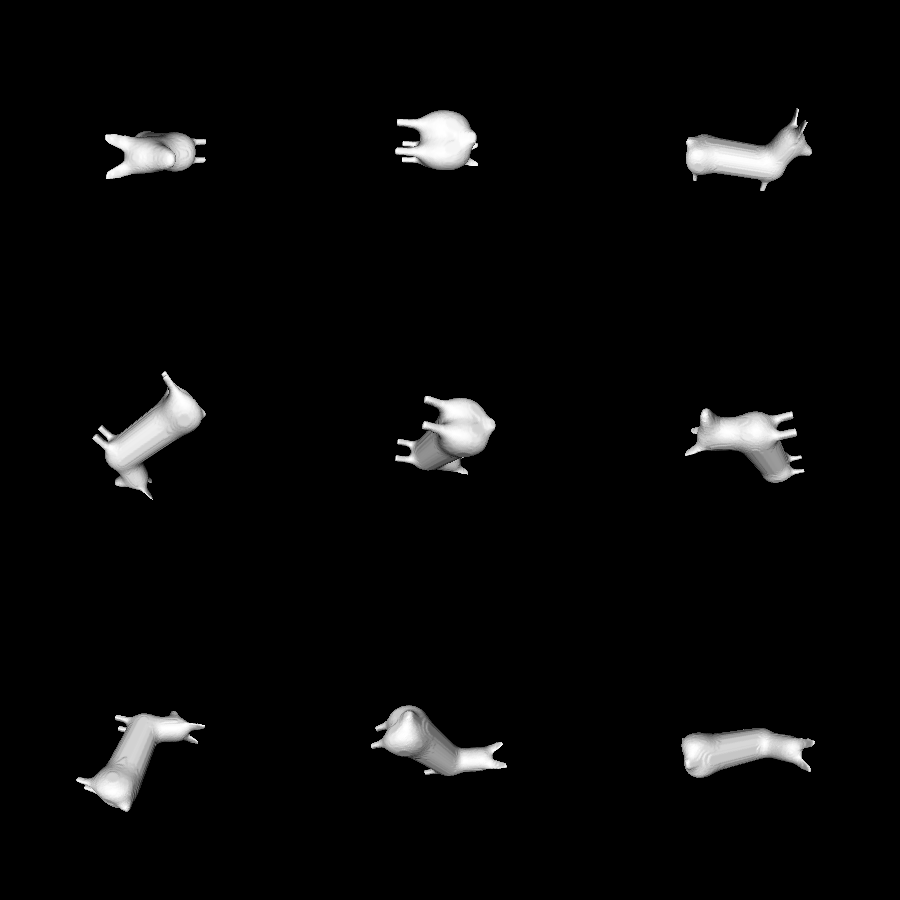
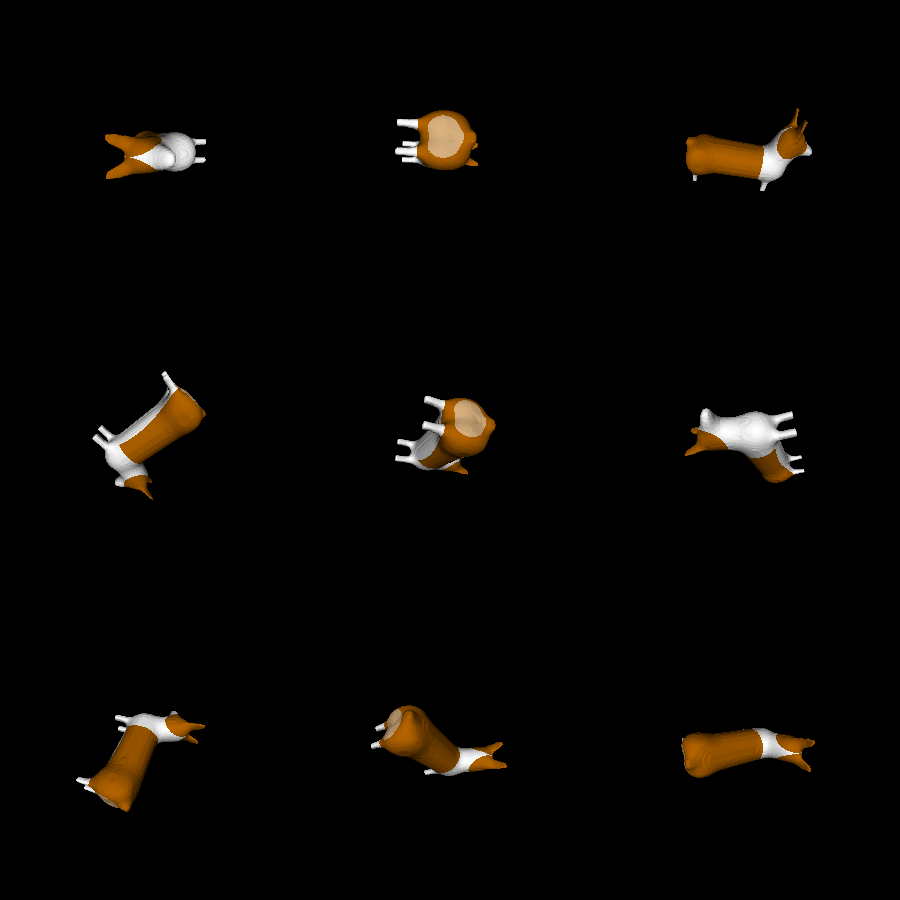
corgi: add color to the model

diff --git a/examples/decoration/corgi/main.go b/examples/decoration/corgi/main.go
@@ -43,6 +43,28 @@ const (
 	HindLegMuscleThickness = 0.4
 	HindLegMuscleZ         = -0.02
 	HindLegMuscleX         = -0.1
+
+	BrownMaxX              = BodyLength - 0.2
+	BrownMinZ              = -BodyRadius - 0.05
+	HeadColorSphereRadius  = 0.41
+	HeadColorSphereX       = BodyLength + 0.2
+	HeadColorSphereY       = 0.4
+	HeadColorSphereZ       = 0.72
+	ButtColorSphereX       = -0.65
+	ButtColorSphereZ       = -0.15
+	ButtColorSphereRadius  = 0.4
+	BellyColorSphereZ      = -2.1
+	BellyColorSphereRadius = 1.9
+)
+
+var (
+	BrownFur = [3]float64{179.0 / 255, 99.0 / 255, 0}
+	WhiteFur = [3]float64{1, 1, 1}
+	ButtFur  = [3]float64{
+		(BrownFur[0] + WhiteFur[0]) / 2,
+		(BrownFur[1] + WhiteFur[1]) / 2,
+		(BrownFur[2] + WhiteFur[2]) / 2,
+	}
 )
 
 func main() {
@@ -51,10 +73,54 @@ func main() {
 		MakeSnout(), MakeNub(), MakeEars())
 	log.Println("creating mesh...")
 	mesh := model3d.SolidToMesh(model, 0.01, 0, -1, 5)
+
+	colors := MakeColorer()
+
 	log.Println("saving...")
 	mesh.SaveGroupedSTL("corgi.stl")
+
 	log.Println("rendering...")
-	model3d.SaveRandomGrid("rendering.png", model3d.MeshToCollider(mesh), 3, 3, 300, 300)
+	model3d.SaveRandomGridColor("rendering.png", model3d.MeshToCollider(mesh), 3, 3, 300, 300,
+		colors.VertexColor)
+}
+
+func MakeColorer() *Colorer {
+	res := &Colorer{}
+
+	res.Add(&model3d.SphereSolid{
+		Center: model3d.Coord3D{X: ButtColorSphereX, Z: ButtColorSphereZ},
+		Radius: ButtColorSphereRadius,
+	}, ButtFur)
+
+	res.Add(&model3d.SphereSolid{
+		Center: model3d.Coord3D{X: BodyLength / 2, Z: BellyColorSphereZ},
+		Radius: BellyColorSphereRadius,
+	}, WhiteFur)
+
+	res.Add(&model3d.RectSolid{
+		MinVal: model3d.Coord3D{X: math.Inf(-1), Y: math.Inf(-1), Z: BrownMinZ},
+		MaxVal: model3d.Coord3D{X: BrownMaxX, Y: math.Inf(1), Z: math.Inf(1)},
+	}, BrownFur)
+
+	res.Add(&model3d.RectSolid{
+		MinVal: model3d.Coord3D{X: math.Inf(-1), Y: math.Inf(-1), Z: BrownMinZ},
+		MaxVal: model3d.Coord3D{X: BrownMaxX, Y: math.Inf(1), Z: math.Inf(1)},
+	}, BrownFur)
+
+	for _, y := range []float64{HeadColorSphereY, -HeadColorSphereY} {
+		res.Add(&model3d.SphereSolid{
+			Center: model3d.Coord3D{X: HeadColorSphereX, Y: y, Z: HeadColorSphereZ},
+			Radius: HeadColorSphereRadius,
+		}, BrownFur)
+	}
+
+	// Default to white.
+	res.Add(&model3d.RectSolid{
+		MinVal: model3d.Coord3D{X: 1, Y: 1, Z: 1}.Scale(math.Inf(-1)),
+		MaxVal: model3d.Coord3D{X: 1, Y: 1, Z: 1}.Scale(math.Inf(1)),
+	}, WhiteFur)
+
+	return res
 }
 
 func MakeBody() model3d.Solid {

diff --git a/examples/decoration/corgi/colors.go b/examples/decoration/corgi/colors.go
@@ -1,0 +1,33 @@
+package main
+
+import "github.com/unixpickle/model3d"
+
+type Colorer struct {
+	Solids []model3d.Solid
+	Colors [][3]float64
+}
+
+func (c *Colorer) Add(s model3d.Solid, color [3]float64) {
+	c.Solids = append(c.Solids, s)
+	c.Colors = append(c.Colors, color)
+}
+
+func (c *Colorer) VertexColor(coord model3d.Coord3D) [3]float64 {
+	for i, s := range c.Solids {
+		if s.Contains(coord) {
+			return c.Colors[i]
+		}
+	}
+	return [3]float64{0, 0, 0}
+}
+
+func (c *Colorer) TriangleColor(t *model3d.Triangle) [3]float64 {
+	var avg [3]float64
+	for _, coord := range t {
+		color := c.VertexColor(coord)
+		for i, x := range color {
+			avg[i] += x / 3
+		}
+	}
+	return avg
+}
